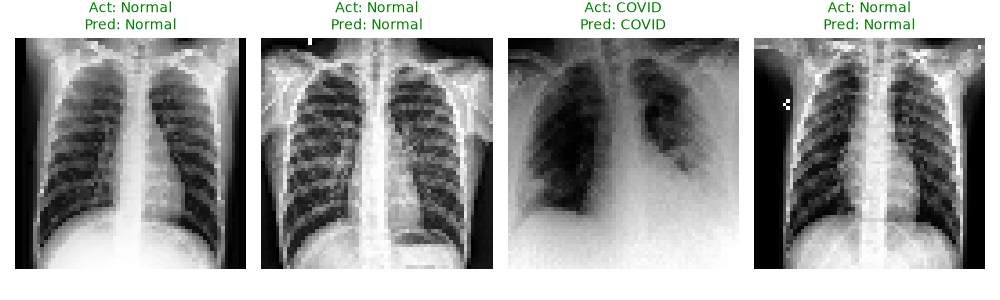
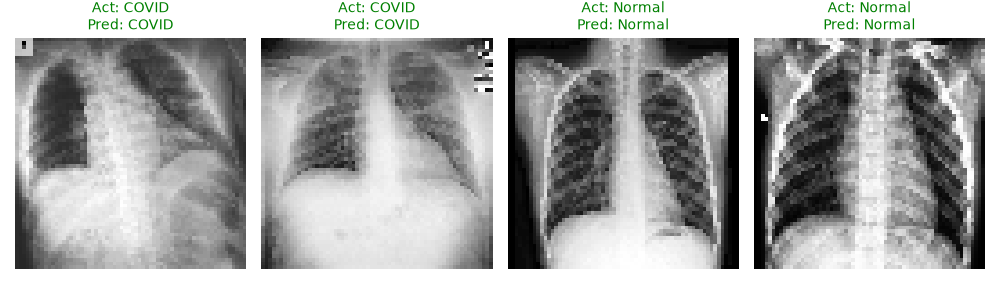
update code and evaluation

diff --git a/LAB05/classification/evaluate.py b/LAB05/classification/evaluate.py
@@ -1,58 +1,83 @@
-from sklearn.metrics import accuracy_score, confusion_matrix, classification_report
+import os
+import random
 import matplotlib.pyplot as plt
-import seaborn as sns
-import numpy as np
+from sklearn.metrics import classification_report, confusion_matrix
 
-def evaluate_model(model, X_test, y_test, kernel_name=""):
-    y_pred = model.predict(X_test)
-    acc = accuracy_score(y_test, y_pred)
-    print(f"[{kernel_name}] Accuracy: {acc:.4f}")
-    print(classification_report(y_test, y_pred, target_names=["Normal", "COVID"]))
-    return acc, y_pred
 
-def plot_confusion_matrix(y_test, y_pred, kernel_name, save_path=None):
-    cm = confusion_matrix(y_test, y_pred)
-    plt.figure(figsize=(5, 4))
-    sns.heatmap(cm, annot=True, fmt='d', cmap='Blues',
-                xticklabels=["Normal", "COVID"], yticklabels=["Normal", "COVID"])
-    plt.title(f"Confusion Matrix - {kernel_name} kernel")
-    plt.ylabel("True label")
-    plt.xlabel("Predicted label")
-    if save_path:
-        plt.savefig(save_path)
-    plt.close()
+def plot_predictions(X_test_raw, y_test, y_pred, classes, output_dir):
+    indices = random.sample(range(len(y_test)), min(4, len(y_test)))
 
-def plot_sample_predictions(X_test_raw, y_test, y_pred, img_size=(64, 64), num_images=4, save_path=None):
-    """
-    แสดงภาพผลลัพธ์ 4 รูป พร้อมข้อความ Pred/True สีเขียวถ้าถูก สีแดงถ้าผิด
-    """
-    class_map = {0: "Normal", 1: "COVID"}
-    num_correct = np.sum(y_test == y_pred)
-    total = len(y_test)
-    
-    # สุ่มเลือกรูปมา 4 รูป
-    indices = np.random.choice(len(y_test), num_images, replace=False)
-    
-    fig, axes = plt.subplots(2, 2, figsize=(7, 7))
-    fig.suptitle(f"Prediction: {num_correct}/{total} correct", fontsize=14)
-    
+    fig, axes = plt.subplots(2, 2, figsize=(8, 8))
+    fig.suptitle("Prediction Sample: X-Ray", fontsize=16)
+
     for i, idx in enumerate(indices):
         ax = axes[i // 2, i % 2]
-        
-        # Reshape ข้อมูล 1D กลับมาเป็นรูปภาพ 2D เพื่อแสดงผล
-        img = X_test_raw[idx].reshape(img_size)
-        ax.imshow(img, cmap='gray')
-        ax.axis('off')
-        
-        true_label = class_map[y_test[idx]]
-        pred_label = class_map[y_pred[idx]]
-        
-        # ทายถูกใช้สีเขียว ทายผิดใช้สีแดง
-        color = 'green' if true_label == pred_label else 'red'
-        ax.set_title(f"Pred: {pred_label}\nTrue: {true_label}", color=color, fontsize=11)
-        
-    plt.tight_layout()
-    if save_path:
-        plt.savefig(save_path)
-        print(f"Saved prediction image to {save_path}")
+        ax.imshow(X_test_raw[idx], cmap="gray")
+        ax.axis("off")
+
+        true_label = classes[y_test[idx]]
+        pred_label = classes[y_pred[idx]]
+
+        color = "green" if true_label == pred_label else "red"
+        title = f"True: {true_label}\nPred: {pred_label}"
+        ax.set_title(title, color=color, fontsize=12, backgroundcolor="white")
+
+    plt.tight_layout(rect=[0, 0.03, 1, 0.95])
+    plt.savefig(os.path.join(output_dir, "prediction_sample.png"))
     plt.close()
+    print(f"Prediction samples saved to '{output_dir}/prediction_sample.png'")
+
+
+def evaluate_model(y_test, y_pred, classes, output_dir, X_test_raw=None):
+    print("-" * 40)
+    print("Evaluation")
+    print("-" * 40)
+
+    # 1. Classification Report
+    print("Classification Report:")
+    report = classification_report(y_test, y_pred, target_names=classes)
+    print(report)
+
+    # 2. Confusion Matrix
+    print("Confusion Matrix:")
+    cm = confusion_matrix(y_test, y_pred)
+    print(cm)
+
+    # 3. วาด Confusion Matrix
+    fig, ax = plt.subplots(figsize=(6, 6))
+    im = ax.imshow(cm, interpolation="nearest", cmap=plt.cm.Blues)
+    plt.title("Confusion Matrix")
+    plt.colorbar(im)
+
+    tick_marks = [0, 1]
+    plt.xticks(tick_marks, classes, rotation=45)
+    plt.yticks(tick_marks, classes)
+
+    thresh = cm.max() / 2.0
+    for i in range(cm.shape[0]):
+        for j in range(cm.shape[1]):
+            ax.text(
+                j,
+                i,
+                format(cm[i, j], "d"),
+                ha="center",
+                va="center",
+                color="white" if cm[i, j] > thresh else "black",
+            )
+
+    plt.ylabel("True label")
+    plt.xlabel("Predicted label")
+    plt.tight_layout()
+    plt.savefig(os.path.join(output_dir, "confusion_matrix.png"))
+    plt.close()
+
+    # 4. วาดรูปสี่ช่อง (ถ้ามีข้อมูลรูปภาพดิบ)
+    if X_test_raw is not None:
+        plot_predictions(X_test_raw, y_test, y_pred, classes, output_dir)
+
+    # บันทึกเป็น text report
+    with open(os.path.join(output_dir, "evaluation_report.txt"), "w") as f:
+        f.write("Classification Report:\n")
+        f.write(report)
+        f.write("\nConfusion Matrix:\n")
+        f.write(str(cm))

diff --git a/LAB05/classification/test_svm.py b/LAB05/classification/test_svm.py
@@ -1,23 +1,43 @@
-import numpy as np
+import os
 import joblib
-from evaluate import evaluate_model, plot_confusion_matrix
+import numpy as np
+
+# 1. แก้การ import ให้ดึงจาก evaluate.py ในโฟลเดอร์เดียวกันโดยตรง
+from evaluate import evaluate_model
+
 
 def main():
+    print("-" * 40)
+    print("Testing Saved SVM Model")
+    print("-" * 40)
+
+    # 2. โหลด Model, Scaler และข้อมูล Test set
     model = joblib.load("outputs/svm_model.pkl")
     scaler = joblib.load("outputs/scaler.pkl")
     X_test = np.load("outputs/X_test.npy")
     y_test = np.load("outputs/y_test.npy")
 
-    X_test_s = scaler.transform(X_test)
-    acc, y_pred = evaluate_model(model, X_test_s, y_test, kernel_name="best_model")
-    plot_confusion_matrix(y_test, y_pred, "best_model",
-                           save_path="outputs/confusion_matrix_test.png")
+    # กำหนดชื่อ Class ให้ตรงกับข้อมูล
+    classes = ["COVID", "Normal"]
 
+    # 3. Scale ข้อมูล และสั่งให้ Model ทำนายผล (y_pred) ออกมาก่อน
+    X_test_s = scaler.transform(X_test)
+    y_pred = model.predict(X_test_s)
+
+    # 4. โหลดรูปภาพดิบ (X_test_raw) เพื่อเอาไปวาดรูป 4 ช่อง
+    raw_path = "outputs/X_test_raw.npy"
+    X_test_raw = np.load(raw_path) if os.path.exists(raw_path) else None
+
+    # 5. ส่งค่า y_test, y_pred และ X_test_raw ให้ evaluate_model ประเมินผลและเซฟรูป
+    evaluate_model(y_test, y_pred, classes, "outputs", X_test_raw=X_test_raw)
+
+    # 6. ปริ้นท์ตัวอย่างการทำนาย 10 รายการแรกออกมาดูใน Terminal
     print("\nSample predictions:")
     for i in range(min(10, len(y_pred))):
-        true_label = "COVID" if y_test[i] == 1 else "Normal"
-        pred_label = "COVID" if y_pred[i] == 1 else "Normal"
-        print(f"  #{i}: true={true_label:6s} pred={pred_label:6s}")
+        true_label = classes[y_test[i]]
+        pred_label = classes[y_pred[i]]
+        print(f"  #{i}: true={true_label:8s} pred={pred_label:8s}")
+
 
 if __name__ == "__main__":
     main()
